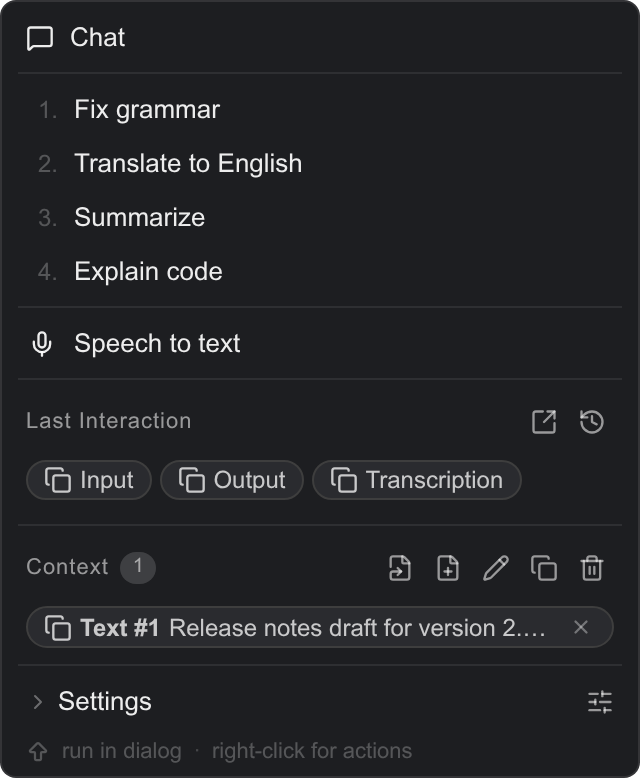
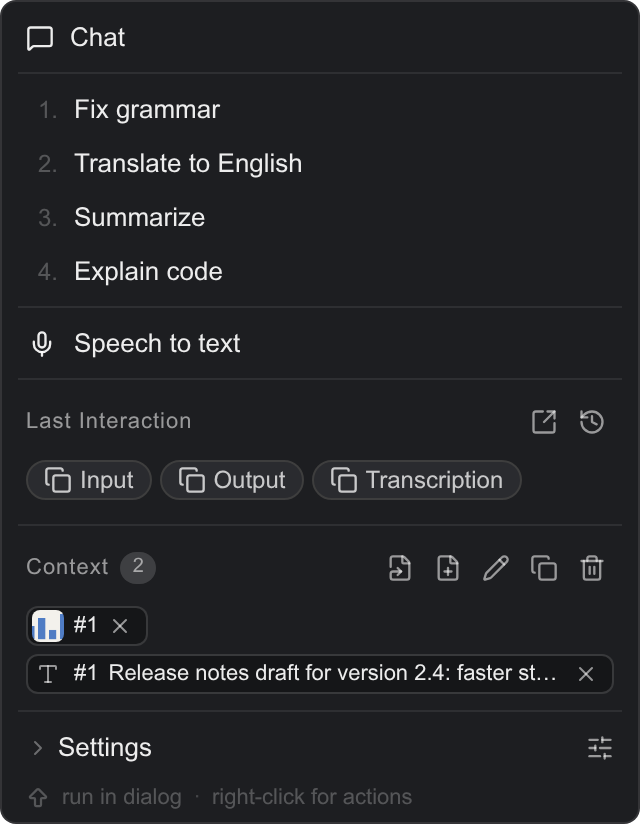
docs(screenshots): show the E2 context chips in the context-menu, quick-action and dictation media

diff --git a/scripts/screenshots/views/dictation-pill.ts b/scripts/screenshots/views/dictation-pill.ts
@@ -14,7 +14,31 @@ export const fixture: Fixture = {
   get_context_items: [],
 };
 
-const image = { index: 0, kind: "image", label: "Image #1", preview: "" };
+const THUMBNAIL_SIZE = 32;
+const IMAGES_PER_ROW = 3;
+const MAX_ITEM_ROWS = 3;
+
+function drawThumbnail(): string {
+  const canvas = document.createElement("canvas");
+  canvas.width = THUMBNAIL_SIZE;
+  canvas.height = THUMBNAIL_SIZE;
+  const g = canvas.getContext("2d")!;
+  g.fillStyle = "#1f2330";
+  g.fillRect(0, 0, THUMBNAIL_SIZE, THUMBNAIL_SIZE);
+  g.fillStyle = "#c3cad9";
+  [4, 10, 16].forEach((y, i) => g.fillRect(3, y, 14 + (i % 2) * 8, 2));
+  g.fillStyle = "#5b2230";
+  g.fillRect(0, 22, THUMBNAIL_SIZE, 10);
+  g.fillStyle = "#ff9aa8";
+  g.fillRect(3, 26, 20, 2);
+  return canvas.toDataURL("image/png");
+}
+
+const image = { index: 0, kind: "image", label: "#1", preview: "", thumbnail: drawThumbnail() };
+
+function itemRows(images: number, texts: number) {
+  return Math.min(Math.ceil(images / IMAGES_PER_ROW) + texts, MAX_ITEM_ROWS);
+}
 
 function emitModel(items: (typeof image)[], targetLocked: boolean) {
   return emit("recording-widget-model", {
@@ -23,7 +47,7 @@ function emitModel(items: (typeof image)[], targetLocked: boolean) {
     selectedLabel: "Dictation",
     targetLocked,
     items,
-    itemRows: items.length,
+    itemRows: itemRows(items.length, 0),
     contextVersion: items.length + 1,
     stopChatDestination: "",
   });

diff --git a/scripts/screenshots/views/context-menu.ts b/scripts/screenshots/views/context-menu.ts
@@ -23,6 +23,20 @@ function prompt(id: string, label: string, tooltip: string) {
   return item(id, label, "skill", "skills", { data: { skill_id: id, skill_name: label }, tooltip });
 }
 
+function drawContextImage(): string {
+  const canvas = document.createElement("canvas");
+  canvas.width = 200;
+  canvas.height = 120;
+  const g = canvas.getContext("2d")!;
+  g.fillStyle = "#f3f1ec";
+  g.fillRect(0, 0, canvas.width, canvas.height);
+  g.fillStyle = "#4f7cc4";
+  [50, 80, 35, 95].forEach((height, i) => g.fillRect(20 + i * 42, 110 - height, 28, height));
+  return canvas.toDataURL("image/png").split(",")[1];
+}
+
+const contextImage = { item_type: "image", number: 1, data: drawContextImage(), media_type: "image/png" };
+
 const menuItems = [
   item("__chat__", "Chat", "chat", "chat", { separator_after: true }),
   prompt("fix-grammar", "Fix grammar", "Corrects grammar and spelling, keeping the tone."),
@@ -53,7 +67,7 @@ const menuItems = [
   item("environment_section", "Context", "context", "context", {
     separator_after: true,
     data: {
-      items: [{ item_type: "text", number: 1, content: "Release notes draft for version 2.4: faster startup, new themes." }],
+      items: [contextImage, { item_type: "text", number: 1, content: "Release notes draft for version 2.4: faster startup, new themes." }],
     },
   }),
   item("settings_section", "Settings", "settings_section", "settings"),

diff --git a/scripts/screenshots/animations/quick-action.ts b/scripts/screenshots/animations/quick-action.ts
@@ -25,7 +25,7 @@ export const backdrop = `
 </div>`;
 
 export const windows: Animation["windows"] = {
-  menu: { page: "context-menu.html", view: "quick-action-menu", left: 456, top: 130, width: 320, height: 410 },
+  menu: { page: "context-menu.html", view: "quick-action-menu", left: 456, top: 124, width: 320, height: 416 },
   toast: { page: "notification.html", view: "notification", left: 460, top: 340, width: 340, height: 140 },
 };
 

diff --git a/README.md b/README.md
@@ -16,7 +16,7 @@ Promptheus lives in the system tray and stays out of the way until you press a s
 
 ### Context menu over any app
 
-<img src="docs/screenshots/context-menu.png" alt="Context menu with the Chat entry, four numbered prompts, Speech to text, the last interaction and one context item" width="320" align="right">
+<img src="docs/screenshots/context-menu.png" alt="Context menu with the Chat entry, four numbered prompts, Speech to text, the last interaction and a context holding an image and a text item" width="320" align="right">
 
 The global hotkey (`Ctrl+F1` on Linux, `Cmd+F1` on macOS by default) opens the context menu at the pointer, over whatever app has focus. Each prompt (skill) runs on the clipboard text and writes the result back to the clipboard; with `Shift` it opens in the chat window instead. Digits pick a prompt, so a quick action is two keystrokes.
 
@@ -45,7 +45,7 @@ The chat window also hosts the web apps of AI providers, such as ChatGPT and Cla
 ### Speech-to-text dictation
 
 <p>
-  <img src="docs/screenshots/dictation.webp" alt="Dictation: Shift+F1 starts the recording pill, a click on its Screenshot button and a dragged rectangle over a code error add Image #1, a click on stop and chat sends the transcript with the image to the chat window, which streams the answer" width="800">
+  <img src="docs/screenshots/dictation.webp" alt="Dictation: Shift+F1 starts the recording pill, a click on its Screenshot button and a dragged rectangle over a code error add the screenshot to the pill, a click on stop and chat sends the transcript with the image to the chat window, which streams the answer" width="800">
 </p>
 
 `Shift+F1` starts and stops a recording anywhere. The recording pill shows the waveform and timer, pauses or cancels, and picks where the transcript goes: plain dictation copied to the clipboard, a prompt that runs on it, the chat, or the ChatGPT or Claude tab (or Claude Desktop). Transcription uses OpenAI Whisper or ElevenLabs; a failed transcription keeps the audio for a retry. On GNOME Wayland the pill is drawn by the bundled GNOME Shell extension.

diff --git a/scripts/screenshots/DOCS.md b/scripts/screenshots/DOCS.md
@@ -10,7 +10,7 @@
 ## Views
 
 - `settings`: Models section with the settings agent panel widened after one invented exchange.
-- `context-menu`: the context menu with four prompts, last interaction and context, clipped to the menu.
+- `context-menu`: the context menu with four prompts, last interaction and a context holding an image and a text item, clipped to the menu.
 - `conversation`: the chat window with a two-turn conversation restored from history, the first turn an `/explain-code` skill request on a code snippet, the last answer holding a highlighted code block.
 - `palette`: the command palette after `palette:show` with two providers and three tabs, clipped to the palette.
 - `history`: the history window with results for the query `search`, typed into its search field.
@@ -22,7 +22,7 @@
 ## Animations
 
 - `quick-action`: text selected in an editor, `Ctrl+F1` opens the context menu, prompt 2 runs, a toast reports the result, `Ctrl+V` pastes it.
-- `dictation`: `Shift+F1` starts the recording pill (rendered as macOS, the only platform whose webview pill has the Screenshot button), a drawn pointer clicks Screenshot and drags a rectangle over a code error in the GNOME extension's area selector look (stage dimmed `rgba(0, 0, 0, 0.4)`, crosshair, frame of `extension.js` `_selectCaptureArea`), the pill returns with "Image #1", the pointer clicks stop + chat and the chat streams the answer.
+- `dictation`: `Shift+F1` starts the recording pill (rendered as macOS, the only platform whose webview pill has the Screenshot button), a drawn pointer clicks Screenshot and drags a rectangle over a code error in the GNOME extension's area selector look (stage dimmed `rgba(0, 0, 0, 0.4)`, crosshair, frame of `extension.js` `_selectCaptureArea`), the pill returns with the `#1` image chip (square thumbnail), the pointer clicks stop + chat and the chat streams the answer.
 
 Both fixtures name the model `GPT-6`.
 
